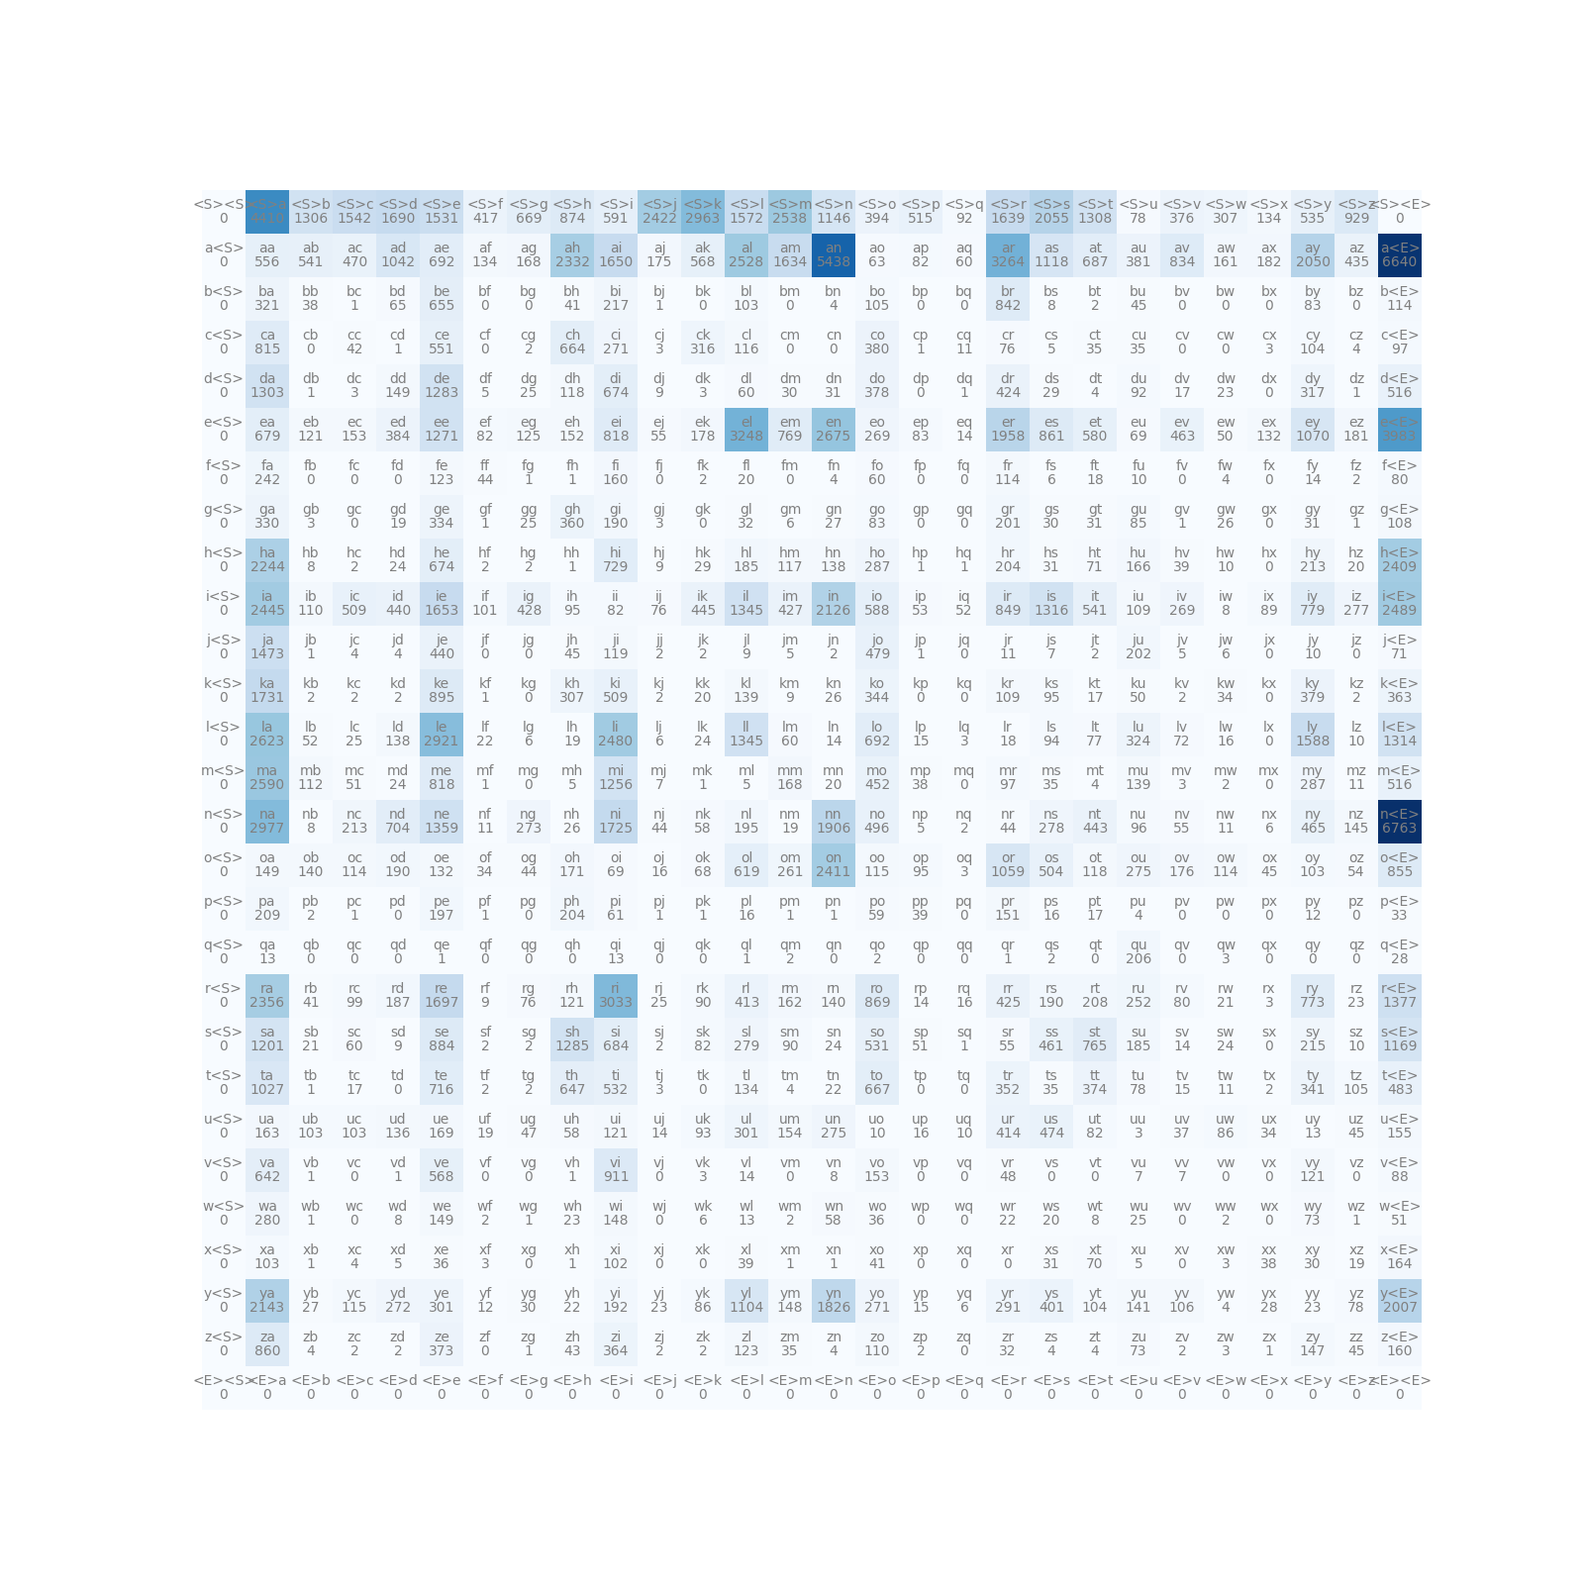
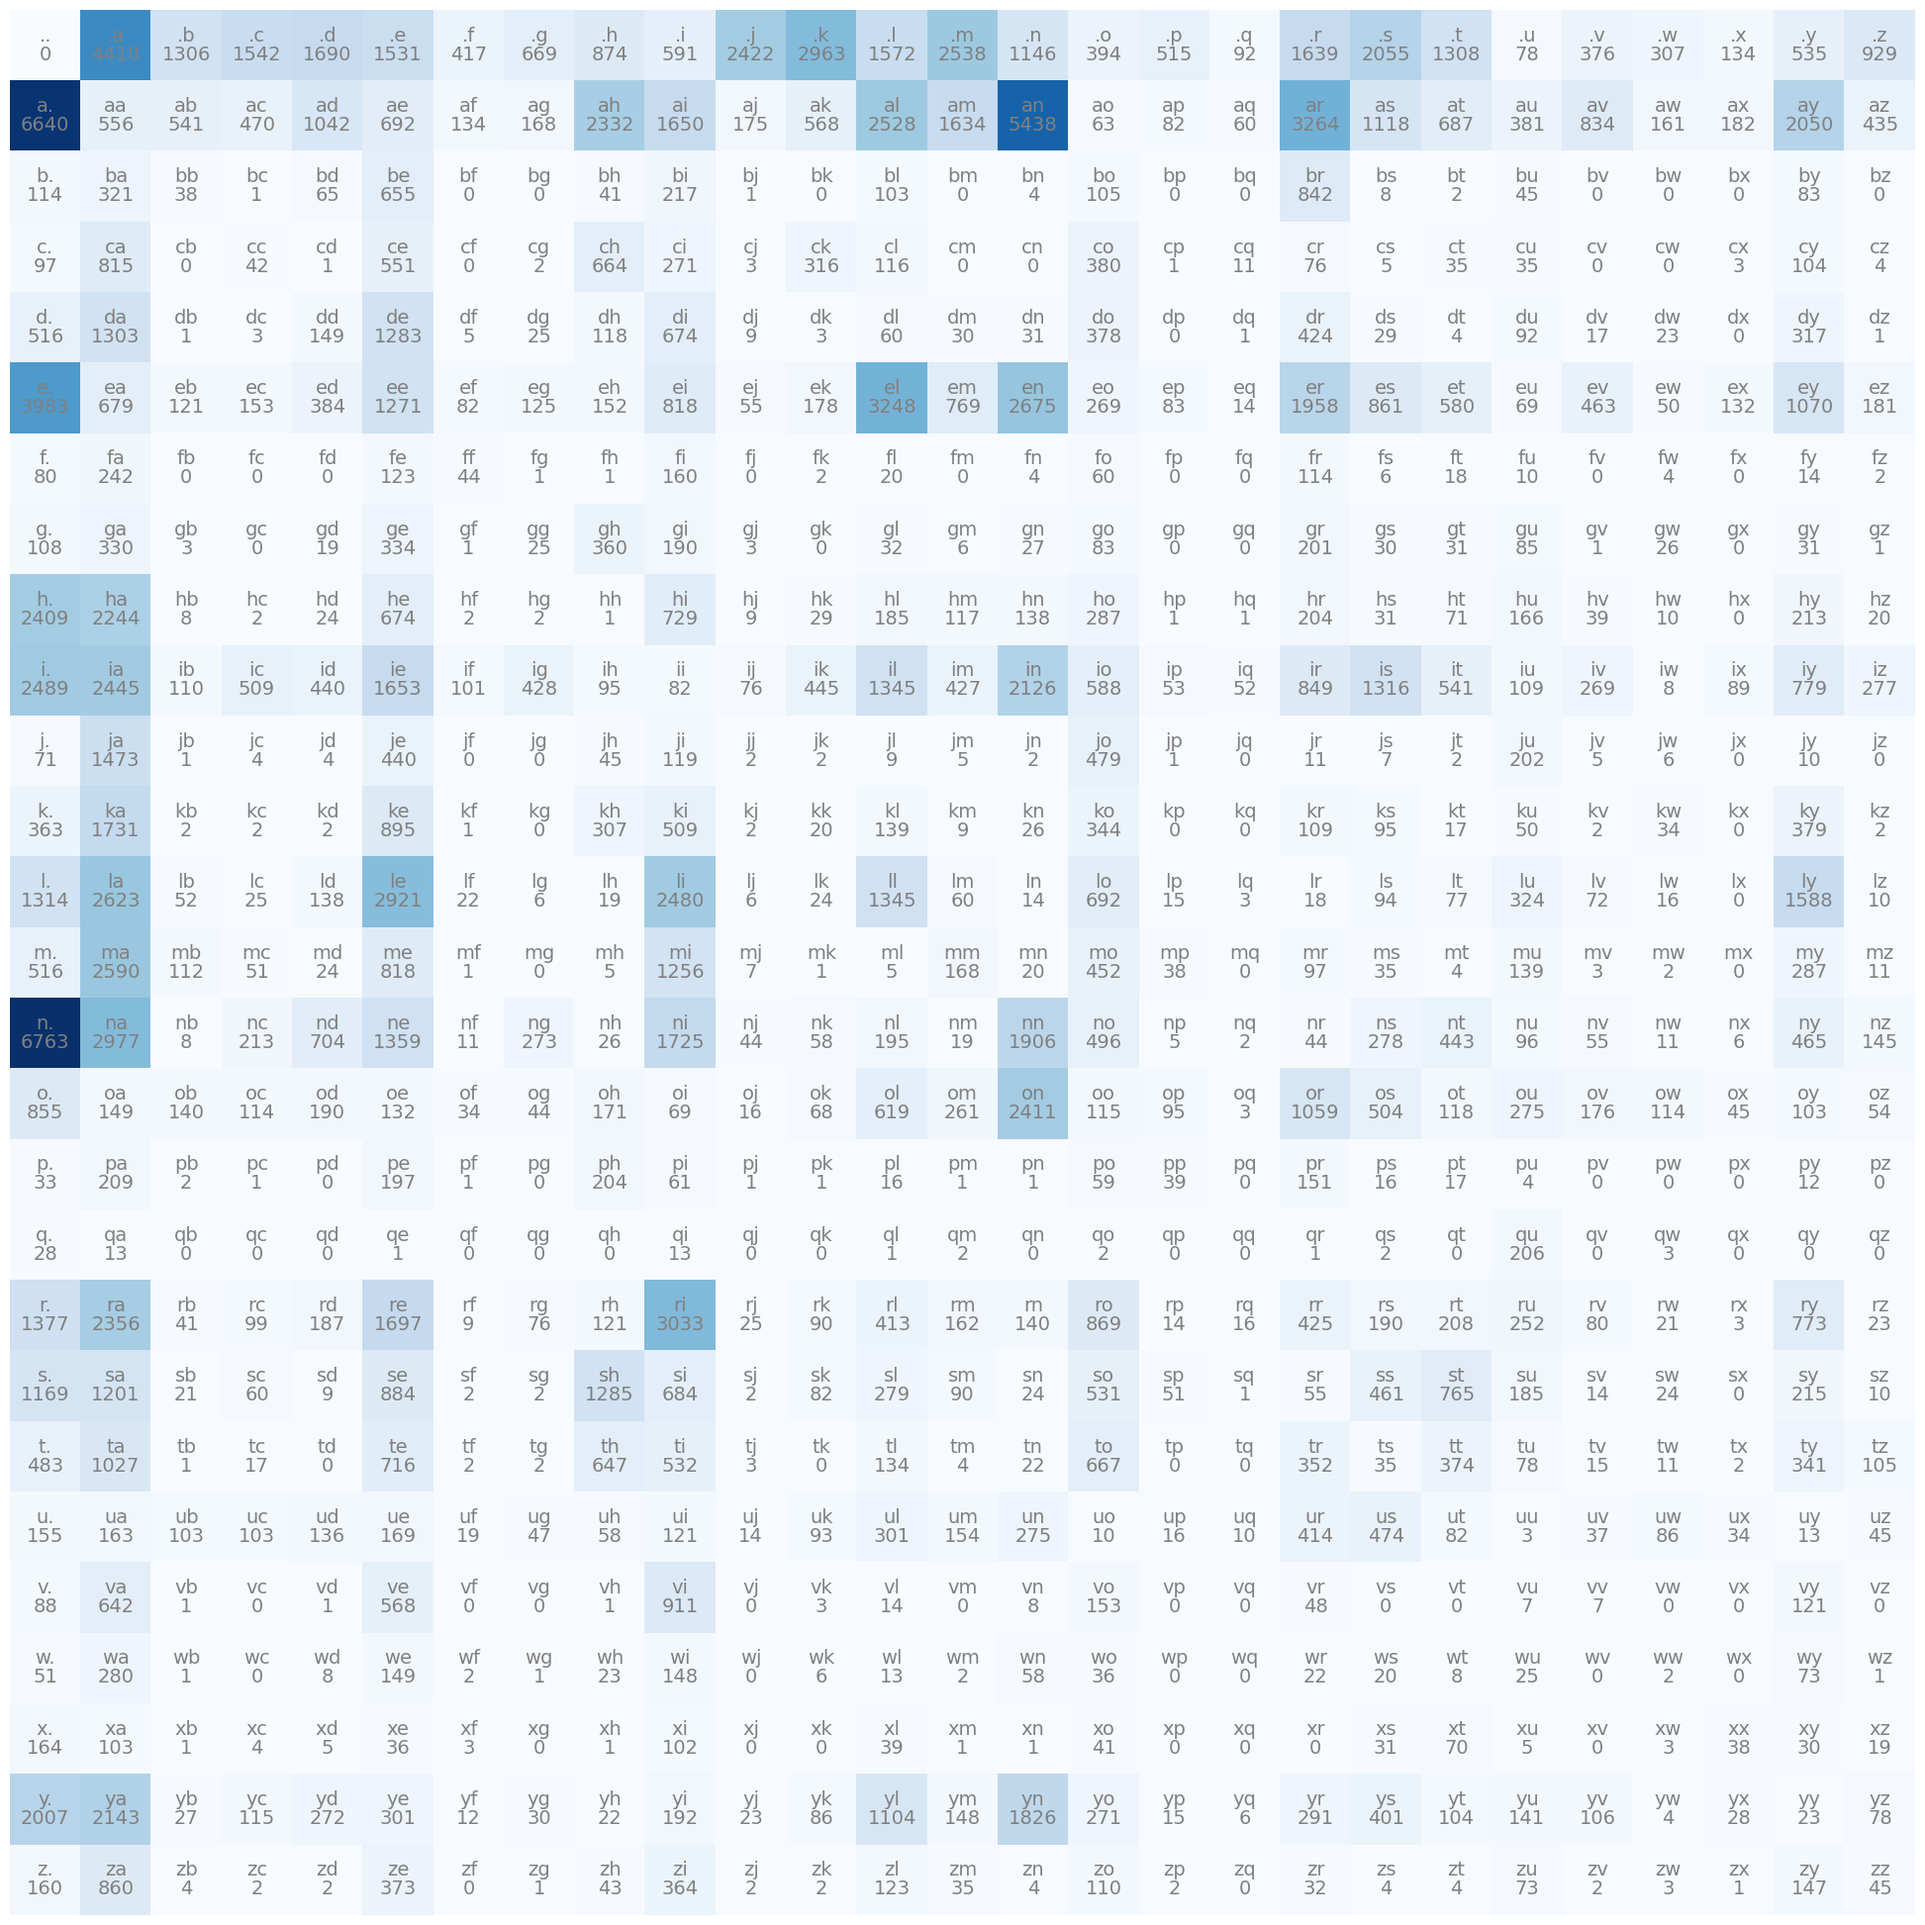
chore: refactor

diff --git a/2-makemore/main.py b/2-makemore/main.py
@@ -1,44 +1,31 @@
 import torch
-import matplotlib.pyplot as plt
-from dataset import MakemoreDataset
+from tokenizer import Tokenizer
+from viz import draw_freqs
 
 def main():
-    # setup dataset interface
+    # setup tokenizer
     WORDS = open('./names.txt').read().splitlines()
-    VOCABULARY = MakemoreDataset.compute_vocabulary(WORDS)
-    START_TOKEN = '<S>'
-    END_TOKEN = '<E>'
-    dataset = MakemoreDataset(
+    VOCABULARY = Tokenizer.compute_vocabulary(WORDS)
+    START_TOKEN = '.'
+    tokenizer = Tokenizer(
         vocabulary=VOCABULARY,
-        start_token=START_TOKEN,
-        end_token=END_TOKEN
+        start_token=START_TOKEN
     )
 
     words = WORDS #[:10]
 
     N = torch.zeros(
-        (dataset.vocab_size, dataset.vocab_size),
+        (tokenizer.vocab_size, tokenizer.vocab_size),
         dtype=torch.int32
     )
 
-    bigrams = dataset.get_bigrams(words)
+    bigrams = tokenizer.compute_bigrams(words)
     for tok1, tok2 in bigrams:
-        enc1 = dataset.encode(tok1)
-        enc2 = dataset.encode(tok2)
+        enc1 = tokenizer.encode(tok1)
+        enc2 = tokenizer.encode(tok2)
         N[enc1, enc2] += 1
 
-    fig = plt.figure(figsize=(16, 16))
-    plot = fig.add_subplot(111)
-    plot.imshow(N, cmap='Blues')
-    plot.axis('off')
-    for i in range(dataset.vocab_size):
-        for j in range(dataset.vocab_size):
-            bigram = ''.join(dataset.decode([i, j]))
-            freq = str(N[i, j].item())
-            plot.text(j, i, bigram, ha='center', va='bottom', color='gray')
-            plot.text(j, i, freq, ha='center', va='top', color='gray')
-
-    fig.savefig('./figures/freqs.png')
+    draw_freqs(N, tokenizer)
 
 if __name__ == '__main__':
     main()

diff --git a/2-makemore/tokenizer.py b/2-makemore/tokenizer.py
@@ -2,7 +2,7 @@ from typing import Optional, overload
 
 Bigram = tuple[str, str]
 
-class MakemoreDataset:
+class Tokenizer:
     def __init__(
         self,
         vocabulary: list[str],
@@ -10,11 +10,14 @@ class MakemoreDataset:
         end_token: Optional[str] = None
     ) -> None:
         assert len(vocabulary) == len(set(vocabulary)), 'vocabulary should not contain duplicates'
+        vocabulary.insert(0, start_token)
+        if end_token is not None and end_token != start_token:
+            vocabulary.append(end_token)
         self.vocabulary = vocabulary
         self.start_token = start_token
         self.end_token = end_token if end_token else start_token
-        self.vocab_size = len(vocabulary) + len(set((self.start_token, self.end_token)))
-        self._itos = [self.start_token, *self.vocabulary, self.end_token]
+        self.vocab_size = len(vocabulary)
+        self._itos = self.vocabulary
         self._stoi = { s: i for i, s in enumerate(self._itos) }
 
     @overload
@@ -41,13 +44,16 @@ class MakemoreDataset:
         else:
             return [self._itos[e] for e in encodings]
 
-    def get_bigrams(self, words: list[str]) -> list[Bigram]:
+    def compute_bigrams(self, words: list[str]) -> list[Bigram]:
         bigrams: list[Bigram] = []
         for word in words:
             chars = [self.start_token] + list(word) + [self.end_token]
             for first_char, second_char in zip(chars, chars[1:]):
                 bigrams.append((first_char, second_char))
         return bigrams
+
+    def __len__(self) -> int:
+        return self.vocab_size
 
     @staticmethod
     def compute_vocabulary(words: list[str]) -> list[str]:

diff --git a/2-makemore/viz.py b/2-makemore/viz.py
@@ -1,0 +1,19 @@
+import torch
+import matplotlib.pyplot as plt
+from tokenizer import Tokenizer
+
+def draw_freqs(N: torch.Tensor, tokenizer: Tokenizer) -> None:
+    fig = plt.figure(figsize=(25, 25))
+    fontdict = { 'fontsize': 14 }
+    plot = fig.add_subplot(111)
+    plot.axis('off')
+
+    plot.imshow(N, cmap='Blues')
+    for i in range(tokenizer.vocab_size):
+        for j in range(tokenizer.vocab_size):
+            bigram = ''.join(tokenizer.decode([i, j]))
+            freq = str(N[i, j].item())
+            plot.text(j, i, bigram, ha='center', va='bottom', color='gray', fontdict=fontdict)
+            plot.text(j, i, freq, ha='center', va='top', color='gray', fontdict=fontdict)
+
+    fig.savefig('./figures/freqs.png', bbox_inches='tight')
